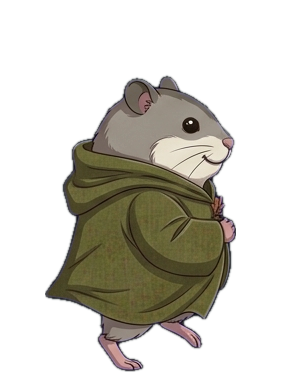
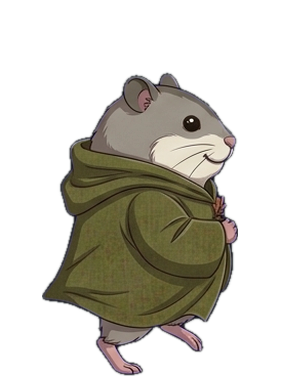
森ラン: 障害物を地面の後ろに描いてうめる、丸太(run_log2)をコースに戻す、顔の大きさをそろえる、空中で3回目に被弾したら着地してからミス、2倍シート対応

diff --git a/frontend/src/components/ForestRun.tsx b/frontend/src/components/ForestRun.tsx
@@ -21,7 +21,7 @@ const GRAVITY = 1800;
 const JUMP_V = -760;
 const LIVES = 3;
 const MUSUBI_SINK = 12; // ムスビの足もとを、地面に、少しうめる
-const GROUND_EDGE = 4; // 障害物を切る位置（地面の草の線の、少し下）
+const GROUND_EDGE = 6; // 障害物の底を、地面の線から、さらに下へ置く量
 const GATE_H = 240; // ゴールの門の高さ
 const GATE_PASS = 170; // 門のまん中を過ぎてから、クリアにするまでの距離
 
@@ -104,6 +104,7 @@ const KINDS: Record<string, ObstacleKind> = {
   rock_s: { img: 'run_rock_s', w: 92, h: 62, hx: 0.7, hy: 0.8, sink: 0.14 },
   stump_l: { img: 'run_stump_l', w: 82, h: 140, hx: 0.65, hy: 0.85, sink: 0.1 },
   rock_l: { img: 'run_rock_l', w: 82, h: 130, hx: 0.65, hy: 0.85, sink: 0.08 },
+  log: { img: 'run_log2', w: 176, h: 60, hx: 0.75, hy: 0.8, sink: 0.08 },
   puddle: { img: 'run_puddle', w: 160, h: 19, hx: 0.85, hy: 1, low: true, sink: 0.45 },
   mushroom_1: { img: 'run_mushroom_1', w: 56, h: 68, hx: 0.7, hy: 0.85, sink: 0.08 },
   mushroom_2: { img: 'run_mushroom_2', w: 56, h: 68, hx: 0.7, hy: 0.85, sink: 0.08 },
@@ -252,6 +253,7 @@ export function ForestRun({ onClose }: { onClose: () => void }) {
     lives: LIVES,
     obstacles: buildCourse(),
     time: 0,
+    dying: false,
   });
 
   const changePhase = useCallback((p: Phase) => {
@@ -271,6 +273,7 @@ export function ForestRun({ onClose }: { onClose: () => void }) {
     g.lives = LIVES;
     g.obstacles = buildCourse();
     g.time = 0;
+    g.dying = false;
     setLives(LIVES);
   }, []);
 
@@ -337,7 +340,7 @@ export function ForestRun({ onClose }: { onClose: () => void }) {
       // ───── 更新 ─────
       if (phaseNow === 'playing') {
         g.time += dt;
-        g.dist += SPEED * dt;
+        if (!g.dying) g.dist += SPEED * dt; // ミスが決まったら、前へ進むのを止めて、着地を待つ
         if (!g.onGround) {
           g.vy += GRAVITY * dt;
           g.y -= g.vy * dt;
@@ -348,6 +351,7 @@ export function ForestRun({ onClose }: { onClose: () => void }) {
             g.landTimer = 0.12;
           }
         }
+        if (g.dying && g.onGround) changePhase('miss');
         if (g.landTimer > 0) g.landTimer -= dt;
         if (g.invuln > 0) g.invuln -= dt;
         if (g.hitTimer > 0) g.hitTimer -= dt;
@@ -364,13 +368,13 @@ export function ForestRun({ onClose }: { onClose: () => void }) {
           const ox0 = o.x + (k.w * (1 - k.hx)) / 2;
           const ox1 = o.x + k.w - (k.w * (1 - k.hx)) / 2;
           const oh = k.h * k.hy;
-          if (mx1 > ox0 && mx0 < ox1 && my0 < oh && my1 > 0 && g.invuln <= 0) {
+          if (mx1 > ox0 && mx0 < ox1 && my0 < oh && my1 > 0 && g.invuln <= 0 && !g.dying) {
             o.hit = true;
             g.lives -= 1;
             g.invuln = 1.2;
             g.hitTimer = 0.45;
             setLives(g.lives);
-            if (g.lives <= 0) changePhase('miss');
+            if (g.lives <= 0) g.dying = true; // 空中なら、着地してから、ミスにする
           }
         }
         // ゴール：門のまん中がムスビの位置に来たあと、門をくぐり抜けてから、クリアにする
@@ -391,12 +395,6 @@ export function ForestRun({ onClose }: { onClose: () => void }) {
       const mid = imgs['runbg_mid2'];
       const midH = 250;
       drawLoop(ctx, mid, d * 0.4, GY - midH + 40, midH * (mid.naturalWidth / (mid.naturalHeight || 1)), midH);
-
-      // 地面
-      const gr = imgs['run_ground'];
-      const gh = H - GY + 8;
-      const gw = gh * (gr.naturalWidth / (gr.naturalHeight || 1));
-      drawLoop(ctx, gr, d, GY - 4, gw, gh);
 
       // 看板・目印・ゴールの門
       const world = (wx: number) => wx - d + MUSUBI_X;
@@ -421,23 +419,29 @@ export function ForestRun({ onClose }: { onClose: () => void }) {
       };
       drawGateHalf('left');
 
-      // 障害物
-      for (const o of g.obstacles) {
-        const k = KINDS[o.kind];
-        const im = imgs[k.img];
-        const x = world(o.x);
-        if (!im.naturalWidth || x > W + 20 || x + k.w < -20) continue;
-        ctx.globalAlpha = o.hit ? 0.55 : 1;
-        const b = boxes[k.img];
-        // 下の部分を、地面の線で切って、地面の中に、うめる（根や足もとが、地面の上に、浮いて見えない）
-        ctx.save();
-        ctx.beginPath();
-        ctx.rect(0, 0, W, GY + GROUND_EDGE);
-        ctx.clip();
-        dI(ctx, im, b.sx, b.sy, b.sw, b.sh, x, GY - k.h + k.h * k.sink + GROUND_EDGE, k.w, k.h);
-        ctx.restore();
-        ctx.globalAlpha = 1;
-      }
+      // 障害物：低いもの（水たまり）以外は、地面より先に描き、地面の草が、足もとにかぶさって、うまって見えるようにする
+      const drawObstacles = (low: boolean) => {
+        for (const o of g.obstacles) {
+          const k = KINDS[o.kind];
+          if (!!k.low !== low) continue;
+          const im = imgs[k.img];
+          const x = world(o.x);
+          if (!im.naturalWidth || x > W + 20 || x + k.w < -20) continue;
+          ctx.globalAlpha = o.hit ? 0.55 : 1;
+          const bb = boxes[k.img];
+          dI(ctx, im, bb.sx, bb.sy, bb.sw, bb.sh, x, GY - k.h + k.h * k.sink + GROUND_EDGE, k.w, k.h);
+          ctx.globalAlpha = 1;
+        }
+      };
+      drawObstacles(false);
+
+      // 地面
+      const gr = imgs['run_ground'];
+      const gh = H - GY + 8;
+      const gw = gh * (gr.naturalWidth / (gr.naturalHeight || 1));
+      drawLoop(ctx, gr, d, GY - 4, gw, gh);
+
+      drawObstacles(true);
 
       // ムスビ
       let name: string;
@@ -450,7 +454,8 @@ export function ForestRun({ onClose }: { onClose: () => void }) {
       const mi = imgs[name];
       if (mi.naturalWidth) {
         // 走り（歩き）のコマは、切り出した大きさが違うので、人物の高さが同じになるよう、倍率を変える
-        const sc = name.startsWith('musubi_walk') ? MUSUBI_H / 290 : MUSUBI_H / 945;
+        // （切り出しの基準は、幅300。高画質版（2倍）でも、同じ大きさになるよう、画像の幅で割る）
+        const sc = name.startsWith('musubi_walk') ? (MUSUBI_H / 290) * (300 / mi.naturalWidth) : MUSUBI_H / 945;
         const mw = mi.naturalWidth * sc;
         const mh = mi.naturalHeight * sc;
         const blink = phaseNow === 'playing' && g.invuln > 0 && Math.floor(g.invuln * 14) % 2 === 0;
@@ -458,7 +463,7 @@ export function ForestRun({ onClose }: { onClose: () => void }) {
           // 絵の下の透明な余白を除いて、足もとを、地面に合わせる（空中では、その分、上がる）
           const b = boxes[name];
           // 走り（歩き）のコマは、体の上下を、絵の中で、そろえてあるので、足もとの基準線（キャンバスの上から360）で、そろえる
-          const footY = name.startsWith('musubi_walk') ? 360 * sc : b ? (b.sy + b.sh) * sc : mh;
+          const footY = name.startsWith('musubi_walk') ? mi.naturalHeight * (360 / 380) * sc : b ? (b.sy + b.sh) * sc : mh;
           dFull(ctx, mi, MUSUBI_X - mw / 2, GY - g.y - footY + MUSUBI_SINK, mw, mh);
         }
       }

diff --git a/tools/split_run_sheet.py b/tools/split_run_sheet.py
@@ -11,8 +11,8 @@ from pathlib import Path
 from PIL import Image
 
 GAMES = Path(__file__).resolve().parent.parent / 'frontend' / 'public' / 'assets' / 'games'
-CW, CH = 300, 380
-BASE = 360  # 足もとの基準線（キャンバスの上から）
+CW0, CH0 = 300, 380  # 基準の大きさ（シートが2倍なら、全部2倍にする）
+BASE0 = 360  # 足もとの基準線（キャンバスの上から）
 BOB_KEEP = 0.2  # 体の上下のゆれを、残す割合（小さいほど、上下しない）
 
 
@@ -28,11 +28,17 @@ def runs(flags):
 
 
 def main():
-    sheet = Image.open(GAMES / 'musubi_run_sheet.png').convert('RGBA')
+    # 高画質版（musubi_run_sheet_2x.png）があれば、そちらを使い、切り出すコマも、2倍の大きさにする
+    big = GAMES / 'musubi_run_sheet_2x.png'
+    src = big if big.exists() else GAMES / 'musubi_run_sheet.png'
+    sheet = Image.open(src).convert('RGBA')
+    k = 2 if big.exists() else 1
+    CW, CH, BASE = CW0 * k, CH0 * k, BASE0 * k
+    print('source', src.name, sheet.size, 'k =', k)
     W, H = sheet.size
     a = sheet.split()[-1].point(lambda v: 255 if v > 128 else 0)
     rows = runs([a.crop((0, y, W, y + 1)).getbbox() is not None for y in range(H)])
-    frames = []
+    crops = []
     for (y0, y1) in rows:
         band = a.crop((0, y0, W, y1))
         cols = runs([band.crop((x, 0, x + 1, y1 - y0)).getbbox() is not None for x in range(W)])
@@ -45,22 +51,34 @@ def main():
                     r, g, b, al = px0[xx, yy]
                     if al and b > r + 40 and b > g + 40:
                         px0[xx, yy] = (r, g, b, 0)
-            fa = frame.split()[-1]
-            bb = fa.getbbox()
-            frame = frame.crop(bb)
-            fa = frame.split()[-1]
-            fw, fh = frame.size
-            # 上半身（上から45%）の、重心の横位置
-            top = fa.crop((0, 0, fw, int(fh * 0.45))).point(lambda v: 255 if v > 128 else 0)
-            xs, tot = 0, 0
-            px = top.load()
-            for yy in range(top.height):
-                for xx in range(top.width):
-                    if px[xx, yy]:
-                        xs += xx
-                        tot += 1
-            cx = xs / tot if tot else fw / 2
-            frames.append((frame, cx))
+            frame = frame.crop(frame.split()[-1].getbbox())
+            crops.append(frame)
+
+    # 顔の大きさが、コマごとに少し違い、顔がぶるぶる動いて見えるので、頭の幅を、全コマの中央値にそろえる
+    def head_width(f):
+        h = f.split()[-1].crop((0, 0, f.size[0], 85 * k)).point(lambda v: 255 if v > 128 else 0)
+        bb = h.getbbox()
+        return (bb[2] - bb[0]) if bb else f.size[0]
+
+    widths = sorted(head_width(f) for f in crops)
+    median = widths[len(widths) // 2]
+    frames = []
+    for f in crops:
+        k = min(1.18, max(0.85, median / head_width(f)))
+        if abs(k - 1) > 0.01:
+            f = f.resize((round(f.size[0] * k), round(f.size[1] * k)), Image.LANCZOS)
+        fa = f.split()[-1]
+        fw, fh = f.size
+        # 上半身（上から45%）の、重心の横位置
+        top = fa.crop((0, 0, fw, int(fh * 0.45))).point(lambda v: 255 if v > 128 else 0)
+        xs, tot = 0, 0
+        px = top.load()
+        for yy in range(top.height):
+            for xx in range(top.width):
+                if px[xx, yy]:
+                    xs += xx
+                    tot += 1
+        frames.append((f, xs / tot if tot else fw / 2))
 
     # 体の上下のゆれが大きすぎるので、頭の高さを、平均に近づける（足の高さは、そのぶん、動く）
     tops = [BASE - f.size[1] for f, _ in frames]

diff --git a/tools/process_game_assets.py b/tools/process_game_assets.py
@@ -25,6 +25,7 @@ EXTRA = {
     'run_mushroom_3': ['--global-key'],
     # ゴールの門：アーチの上の、枝と幹の間に、背景の青が、つながらずに、残る
     'run_goal_gate': ['--global-key'],
+    'run_log2': ['--global-key'],
     # 枠：中央の空きも、緑なので、中央からも抜く
     'frame_moon': ['--inner', '--global-key'],
     'frame_leaf': ['--inner', '--global-key'],
